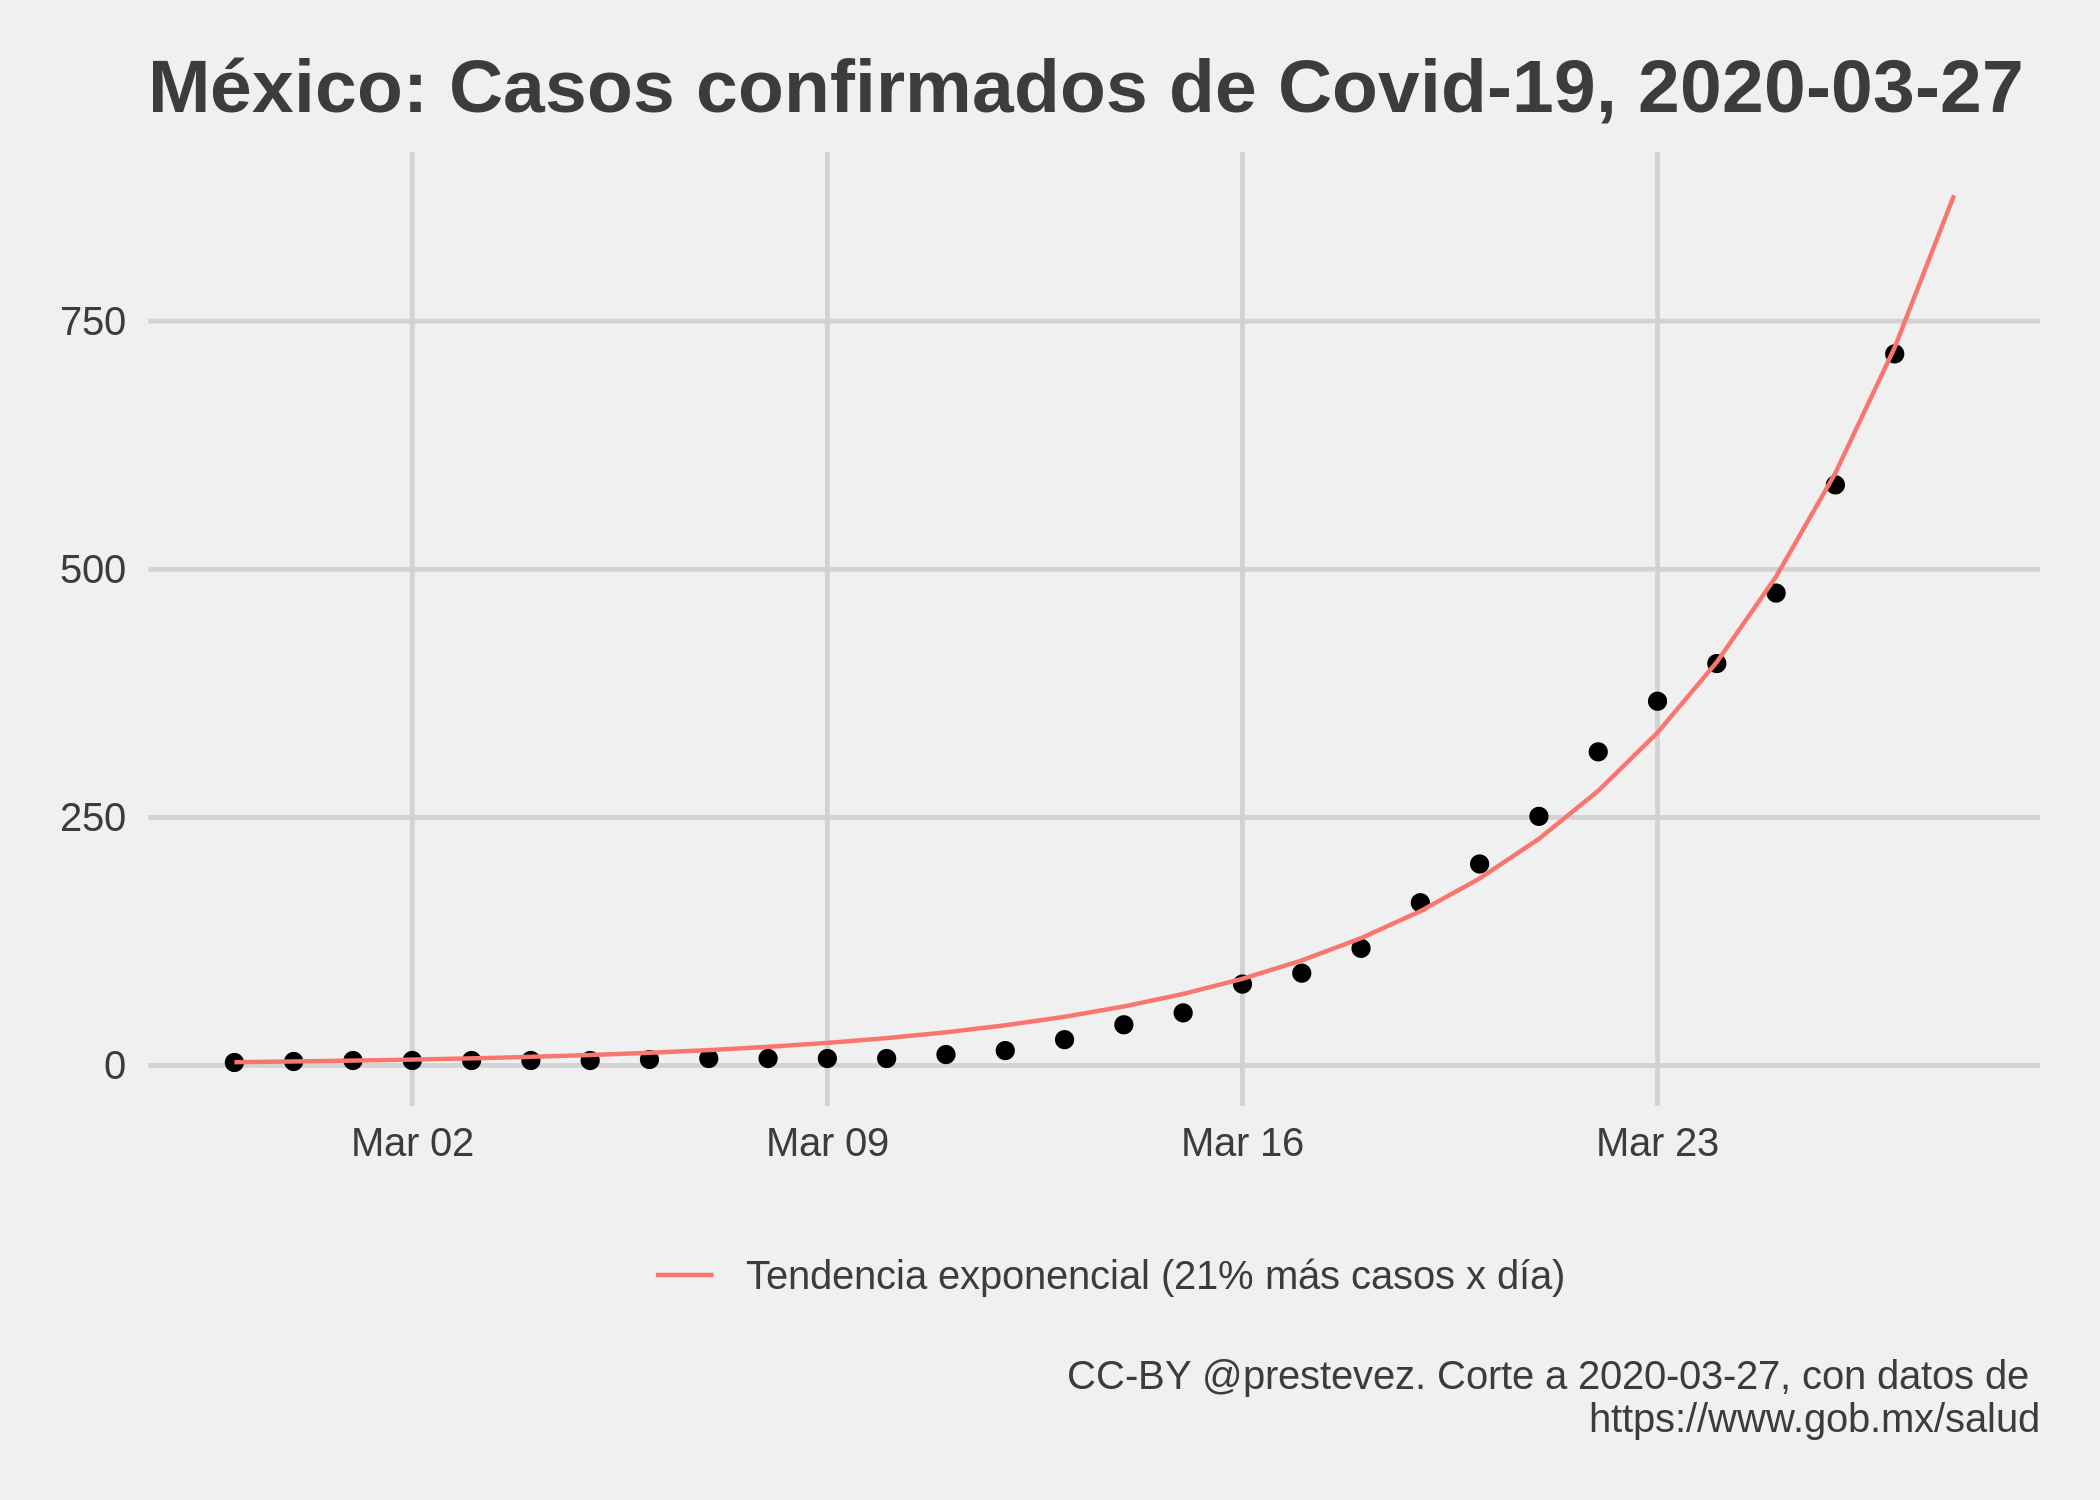
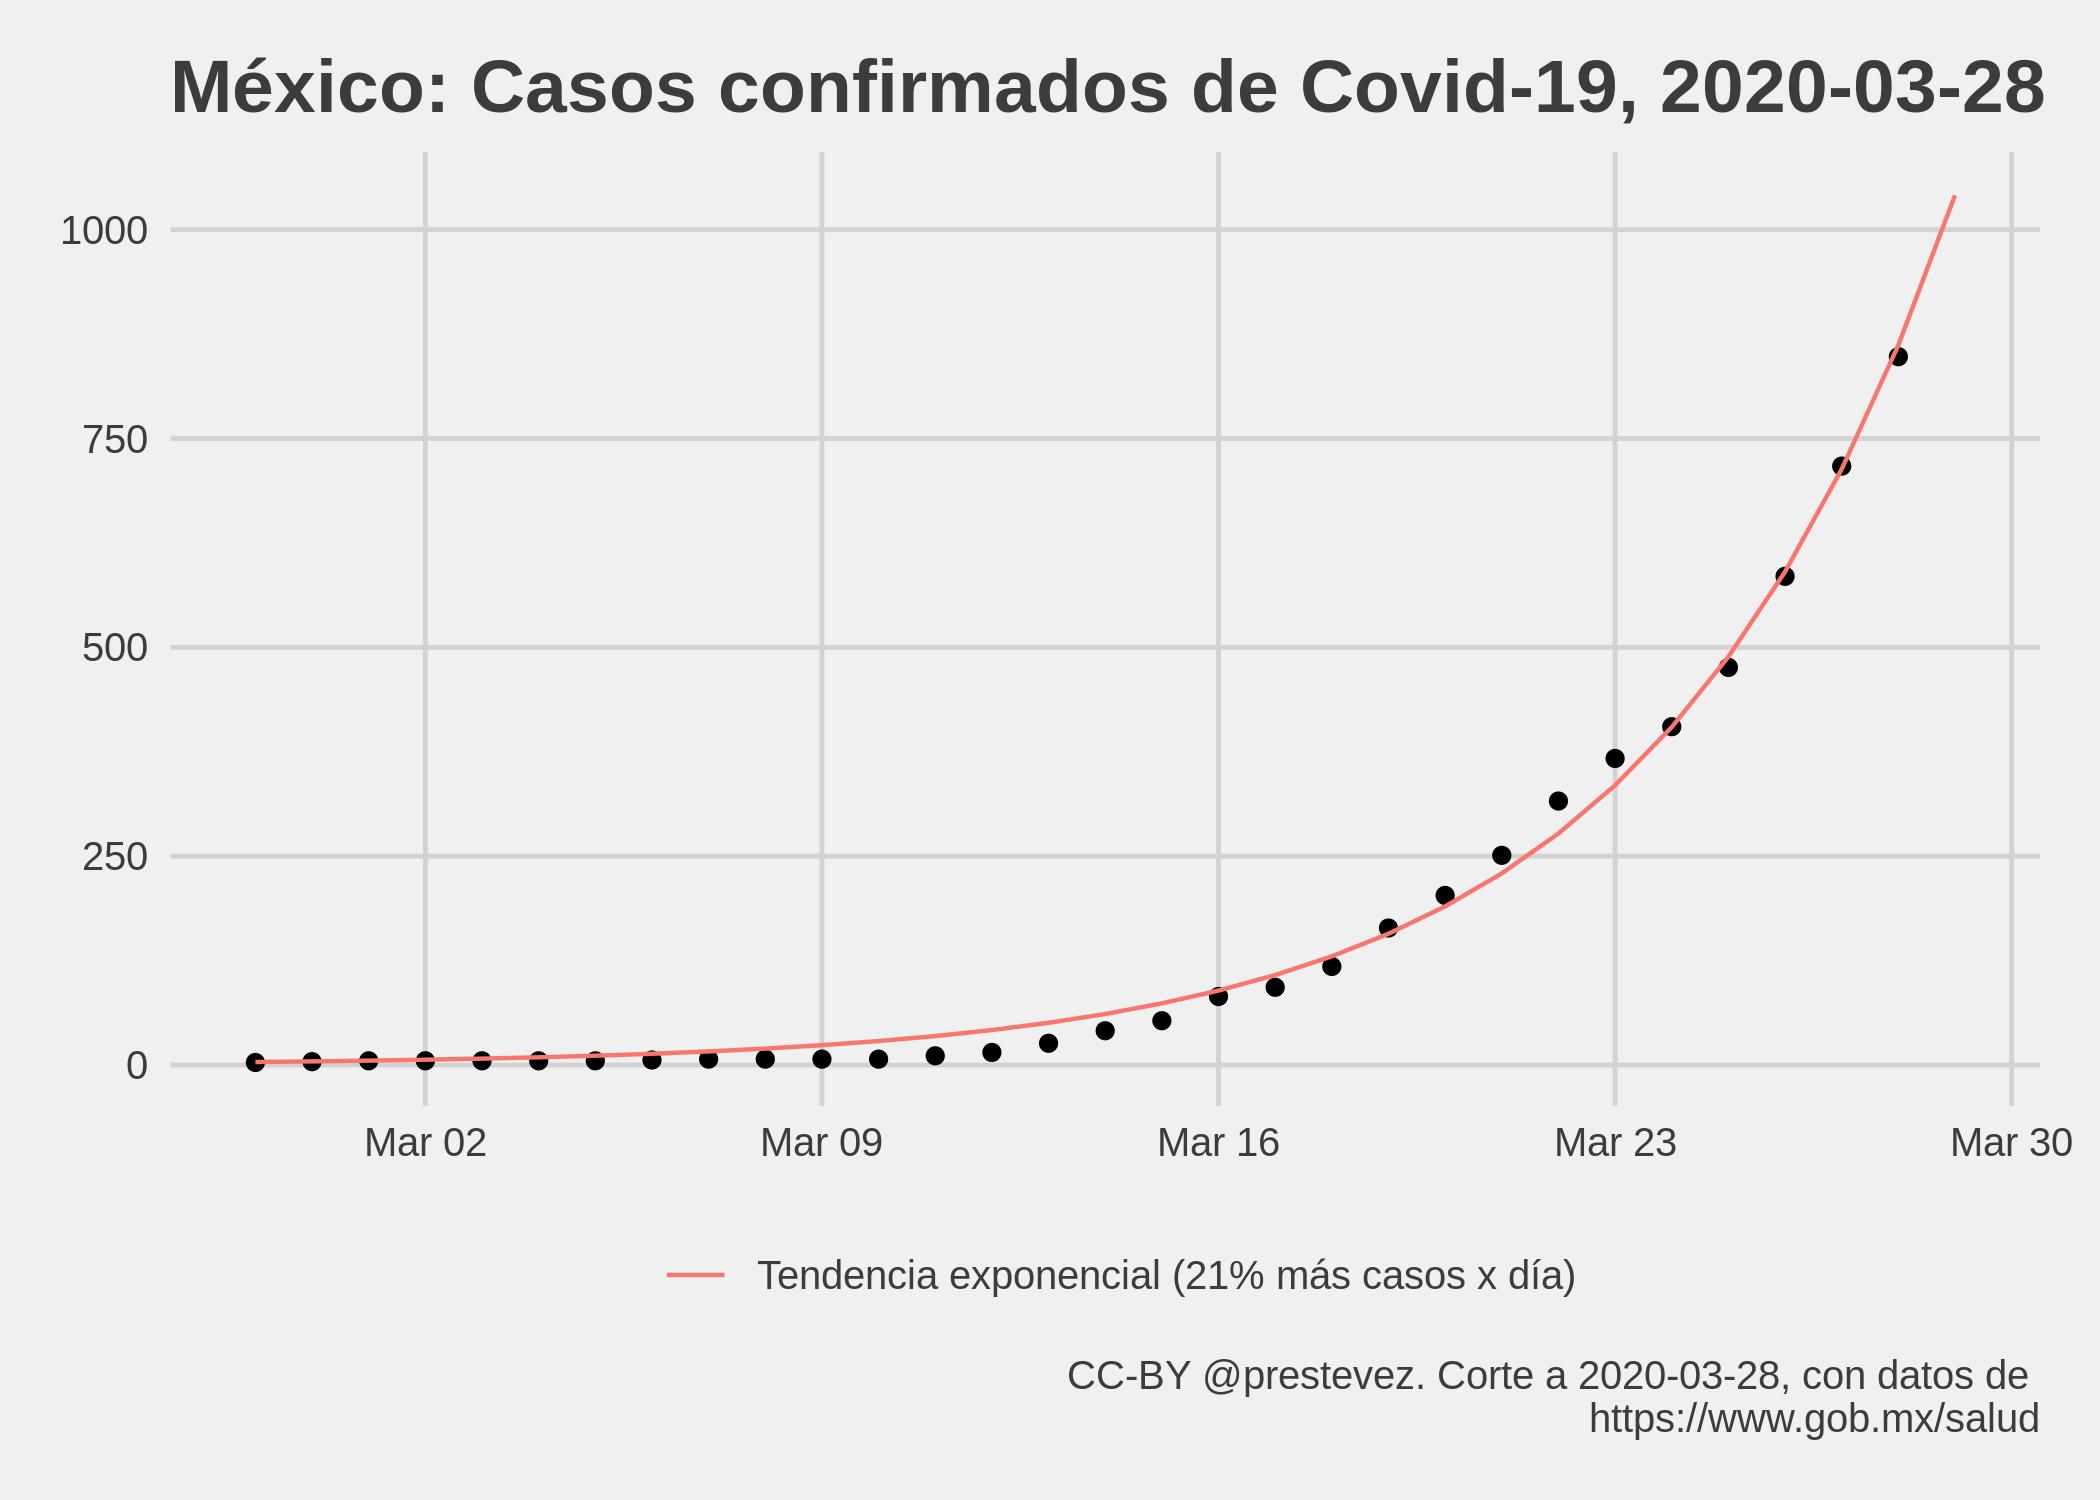
update 2020-03-28

diff --git a/README.md b/README.md
@@ -1,7 +1,7 @@
 Evolución de Covid-19 en México
 ================
 [Patricio R Estevez-Soto](https://twitter.com/prestevez).
-Actualizado: 2020-03-28 01:05:19 GMT
+Actualizado: 2020-03-29 02:21:18 GMT
 
 # Crecimiento de casos confirmados de Covid-19 en México
 
@@ -38,20 +38,20 @@ Parámetros del modelo predictivo:
     ## 
     ## Deviance Residuals: 
     ##     Min       1Q   Median       3Q      Max  
-    ## -25.499  -15.753   -6.511   -0.329   39.236  
+    ## -26.839  -14.480   -6.636   -0.253   38.833  
     ## 
     ## Coefficients:
     ##             Estimate Std. Error t value Pr(>|t|)    
-    ## (Intercept) 1.010605   0.135682   7.448 5.18e-08 ***
-    ## t           0.192190   0.005027  38.232  < 2e-16 ***
+    ## (Intercept) 1.086736   0.116121   9.359 4.07e-10 ***
+    ## t           0.189079   0.004155  45.508  < 2e-16 ***
     ## ---
     ## Signif. codes:  0 '***' 0.001 '**' 0.01 '*' 0.05 '.' 0.1 ' ' 1
     ## 
-    ## (Dispersion parameter for gaussian family taken to be 276.6228)
+    ## (Dispersion parameter for gaussian family taken to be 280.9675)
     ## 
-    ##     Null deviance: 1099063.2  on 28  degrees of freedom
-    ## Residual deviance:    7468.8  on 27  degrees of freedom
-    ## AIC: 249.28
+    ##     Null deviance: 1586975.4  on 29  degrees of freedom
+    ## Residual deviance:    7867.1  on 28  degrees of freedom
+    ## AIC: 258.21
     ## 
     ## Number of Fisher Scoring iterations: 6
 
@@ -88,8 +88,8 @@ Parámetros Jackknife del modelo predictivo de casos:
     ## # A tibble: 2 x 4
     ##   var         Estimate ci_low ci_high
     ##   <chr>          <dbl>  <dbl>   <dbl>
-    ## 1 (Intercept)    1.01   0.944   1.04 
-    ## 2 t              0.192  0.191   0.194
+    ## 1 (Intercept)    1.08   1.01    1.11 
+    ## 2 t              0.189  0.188   0.192
 
 # Modelo de casos nuevos
 
@@ -122,39 +122,39 @@ Parámetros del modelo predictivo de casos nuevos:
     ## 
     ## Deviance Residuals: 
     ##     Min       1Q   Median       3Q      Max  
-    ## -4.2914  -1.6798  -0.7475   0.8616   3.3470  
+    ## -4.0608  -1.5768  -0.8174   0.9308   3.3727  
     ## 
     ## Coefficients:
     ##              Estimate Std. Error z value Pr(>|z|)    
-    ## (Intercept) -0.785224   0.192256  -4.084 4.42e-05 ***
-    ## t            0.194106   0.007718  25.151  < 2e-16 ***
+    ## (Intercept) -0.681607   0.177796  -3.834 0.000126 ***
+    ## t            0.188957   0.006896  27.400  < 2e-16 ***
     ## ---
     ## Signif. codes:  0 '***' 0.001 '**' 0.01 '*' 0.05 '.' 0.1 ' ' 1
     ## 
     ## (Dispersion parameter for poisson family taken to be 1)
     ## 
-    ##     Null deviance: 1178.32  on 28  degrees of freedom
-    ## Residual deviance:  102.44  on 27  degrees of freedom
-    ## AIC: 205.15
+    ##     Null deviance: 1388.09  on 29  degrees of freedom
+    ## Residual deviance:  104.94  on 28  degrees of freedom
+    ## AIC: 214.36
     ## 
     ## Number of Fisher Scoring iterations: 5
 
     ## # A tibble: 2 x 4
     ##   var         Estimate ci_low ci_high
     ##   <chr>          <dbl>  <dbl>   <dbl>
-    ## 1 (Intercept)   -0.786 -0.930  -0.699
-    ## 2 t              0.194  0.191   0.199
+    ## 1 (Intercept)   -0.683 -0.821  -0.602
+    ## 2 t              0.189  0.186   0.194
 
 # Casos esperados mañana
 
 Mañana se espera que el **total acumulado de casos confirmados** de
-Covid-19 alcance **877**, con un intervalo de confianza Jackknife del
-95% entre **792** y **968**, si la tendencia observada hasta hoy se
+Covid-19 alcance **1041**, con un intervalo de confianza Jackknife del
+95% entre **936** y **1166**, si la tendencia observada hasta hoy se
 mantiene igual.
 
-Según el modelo de casos nuevos, mañana se esperan **154 casos
+Según el modelo de casos nuevos, mañana se esperan **177 casos
 confirmados nuevos**, con un intervalo de confianza Jackknife del 95%
-entre **121** y **194**, si la tendencia observada hasta hoy se mantiene
+entre **141** y **225**, si la tendencia observada hasta hoy se mantiene
 igual.
 
 Sin embargo, estas cifra muy probablemente estén equivocadas, pues el
@@ -185,6 +185,7 @@ Para el modelo del acumulado de casos:
 | 2020-03-25 |                      476 |     545.18 | \-69.18 |
 | 2020-03-26 |                      585 |     620.12 | \-35.12 |
 | 2020-03-27 |                      717 |     730.57 | \-13.57 |
+| 2020-03-28 |                      848 |     876.82 | \-28.82 |
 
 Intervalos de confianza JK
 
@@ -194,6 +195,7 @@ Intervalos de confianza JK
 | 2020-03-25 |           476            |    423-732     |       No       |
 | 2020-03-26 |           585            |    511-768     |       No       |
 | 2020-03-27 |           717            |    636-846     |       No       |
+| 2020-03-28 |           848            |    792-968     |       No       |
 
 Para el modelo de casos nuevos:
 
@@ -205,6 +207,7 @@ Para el modelo de casos nuevos:
 | 2020-03-25 |                      71 |      88.21 | \-17.21 |
 | 2020-03-26 |                     109 |      99.55 |    9.45 |
 | 2020-03-27 |                     132 |     124.43 |    7.57 |
+| 2020-03-28 |                     131 |     154.15 | \-23.15 |
 
 Intervalos de confianza JK, casos nuevos.
 
@@ -214,6 +217,7 @@ Intervalos de confianza JK, casos nuevos.
 | 2020-03-25 |           71            |     58-144     |       No       |
 | 2020-03-26 |           109           |     74-142     |       No       |
 | 2020-03-27 |           132           |     97-165     |       No       |
+| 2020-03-28 |           131           |    121-194     |       No       |
 
 # Discusión
 
@@ -222,7 +226,7 @@ confirmados de Covid-19 es consistente con ejercicios [realizados en
 otros países](https://doi.org/10.1016/S0140-6736\(20\)30627-9).
 
 La tendencia exponencial del modelo sugiere que **el número de casos
-confirmados se duplica cada 3.61 días**. Este ritmo es más rápido que
+confirmados se duplica cada 3.67 días**. Este ritmo es más rápido que
 [el observado a nivel
 global](https://ourworldindata.org/coronavirus#growth-of-cases-how-long-did-it-take-for-the-number-of-confirmed-cases-to-double),
 pero es consistente con los ritmos de crecimiento observados durante las
